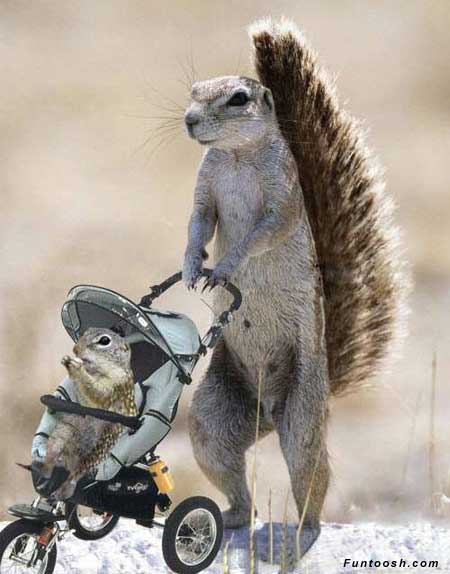
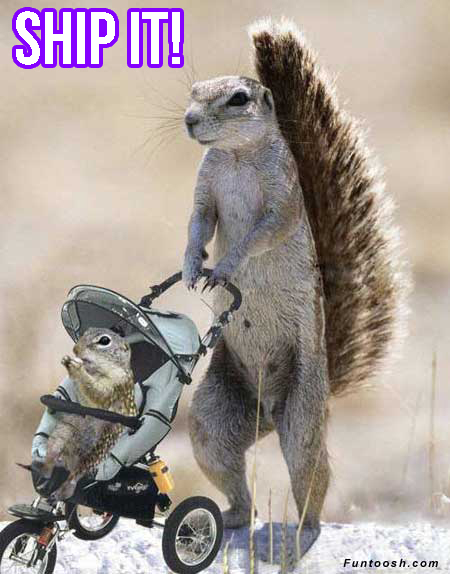
Added ship it words :squirrel:

Changed region(s): [[0.0, 0.0, 0.4356, 0.1185]]

diff --git a/src/main.d.ts b/src/main.d.ts
@@ -1,0 +1,2 @@
+export declare function single(): string;
+export declare function many(number: number): string[];
